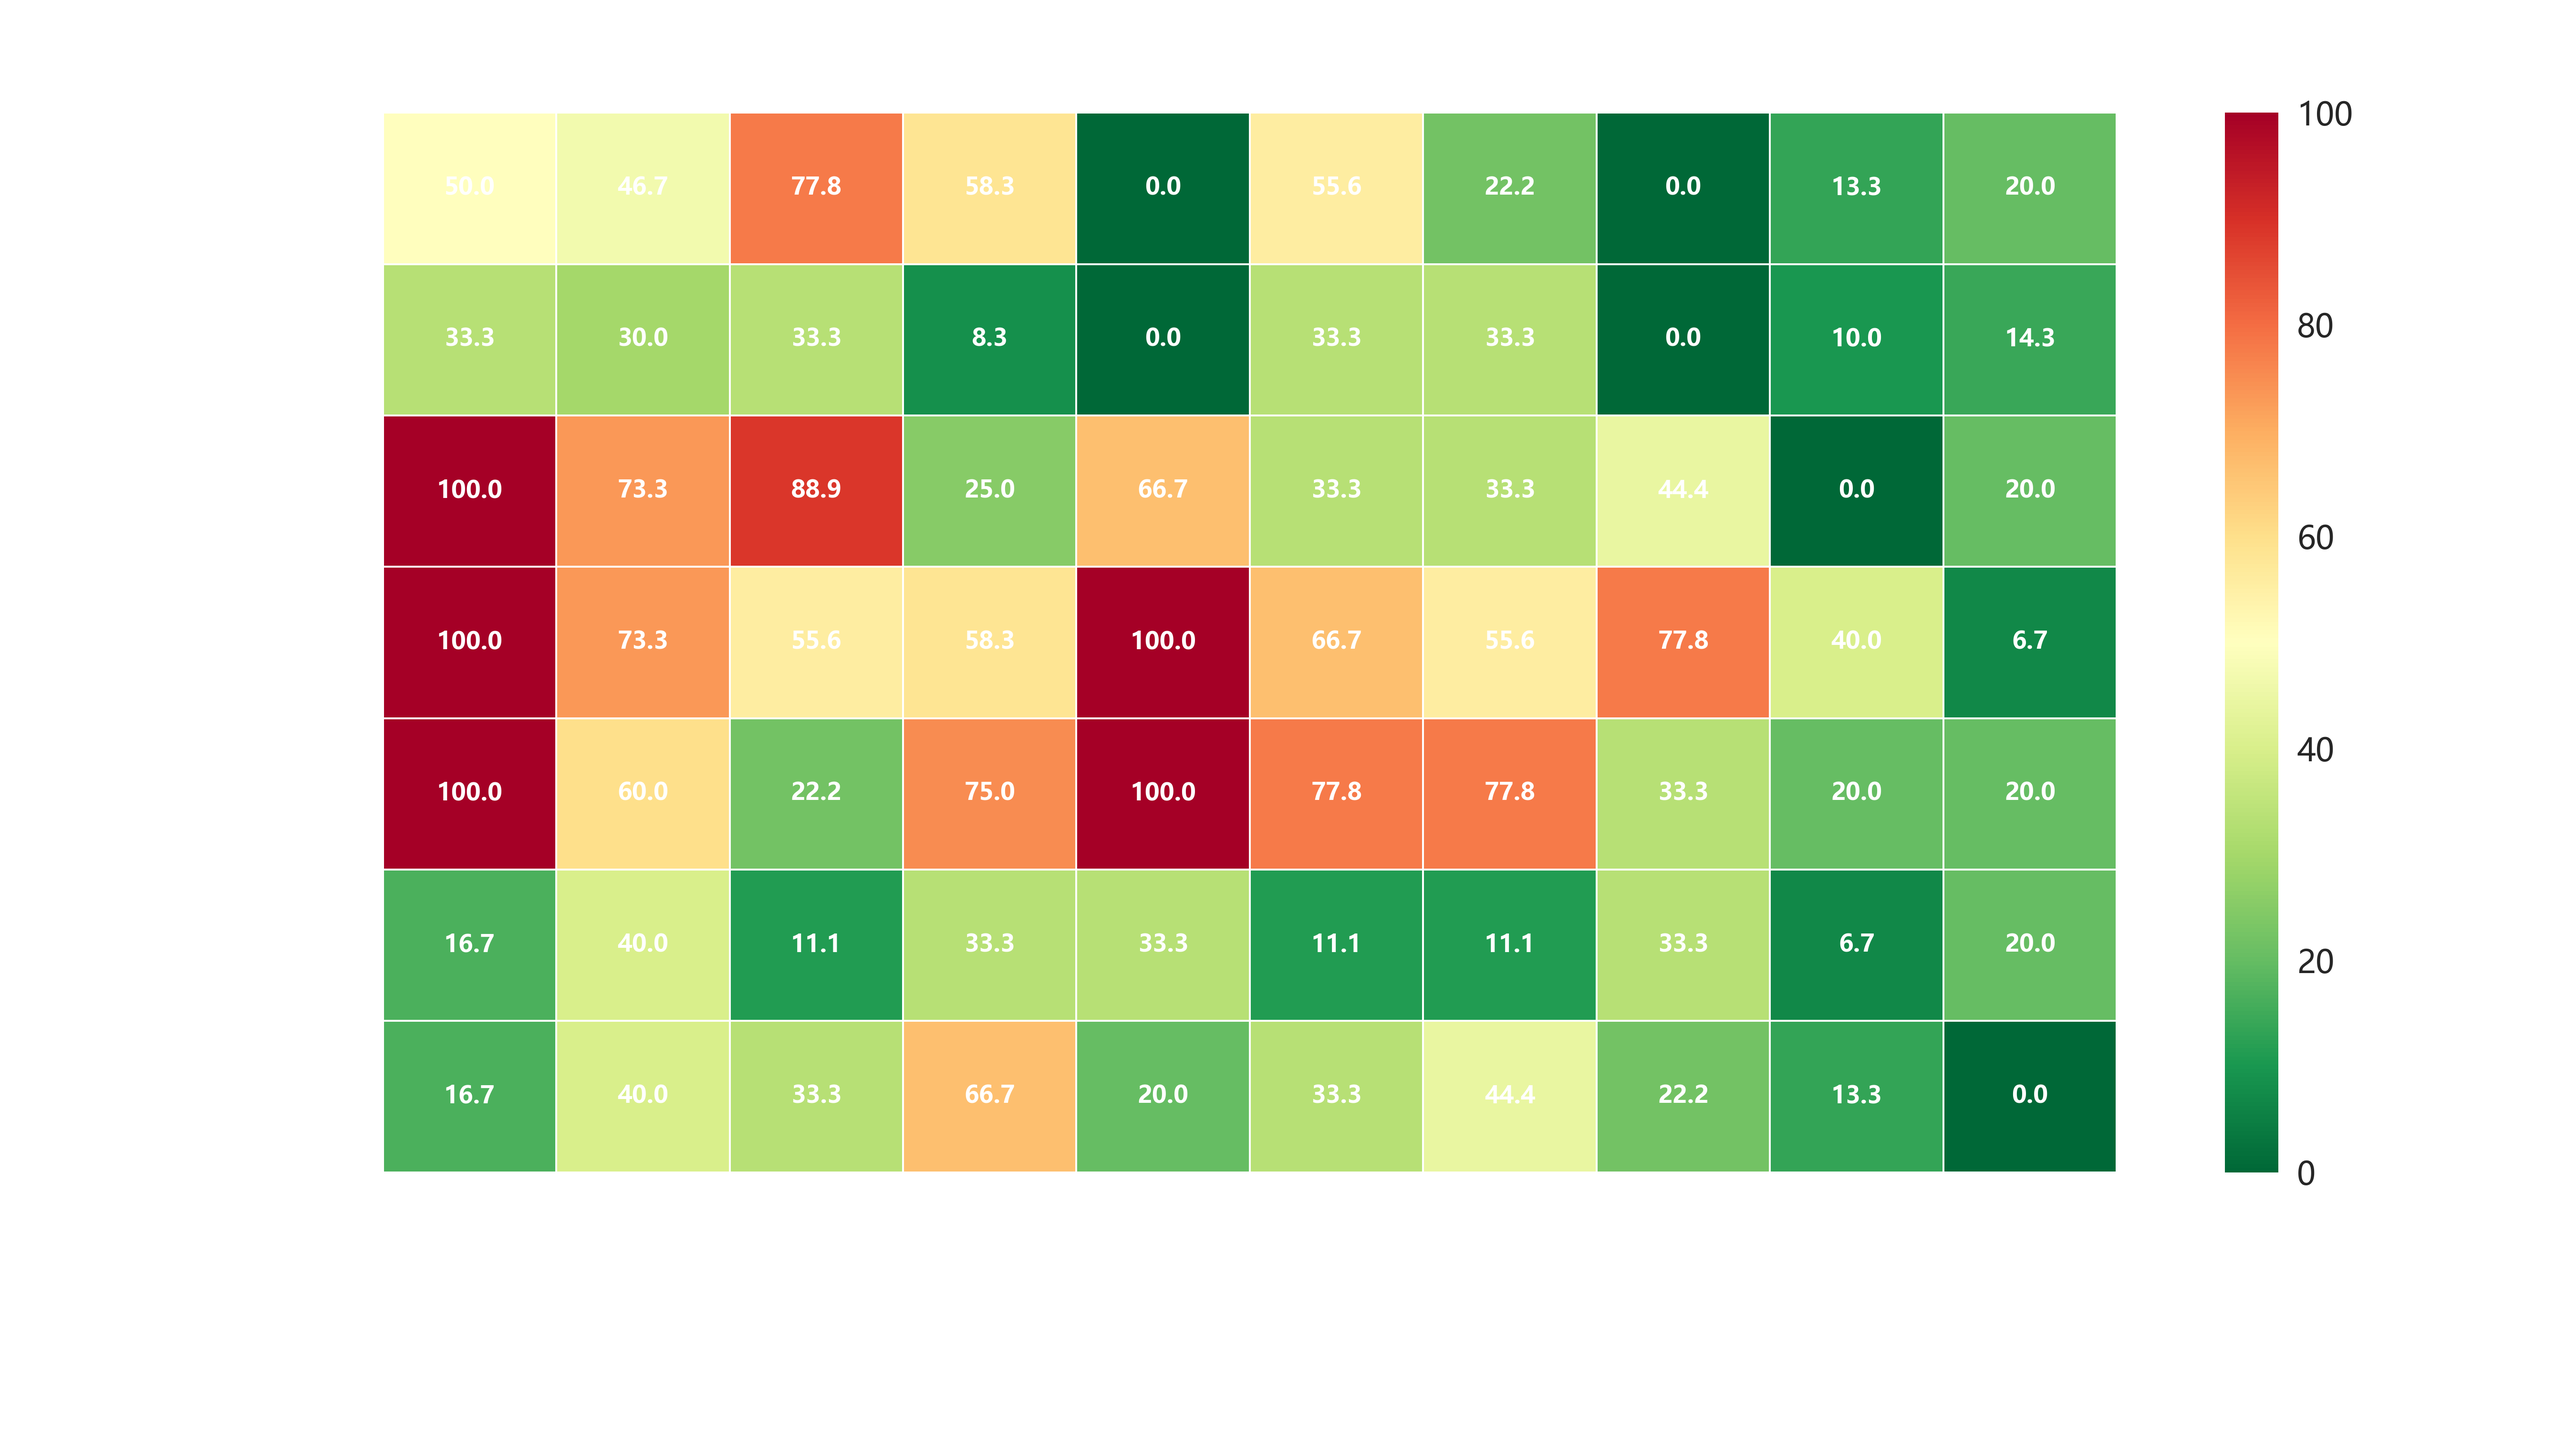
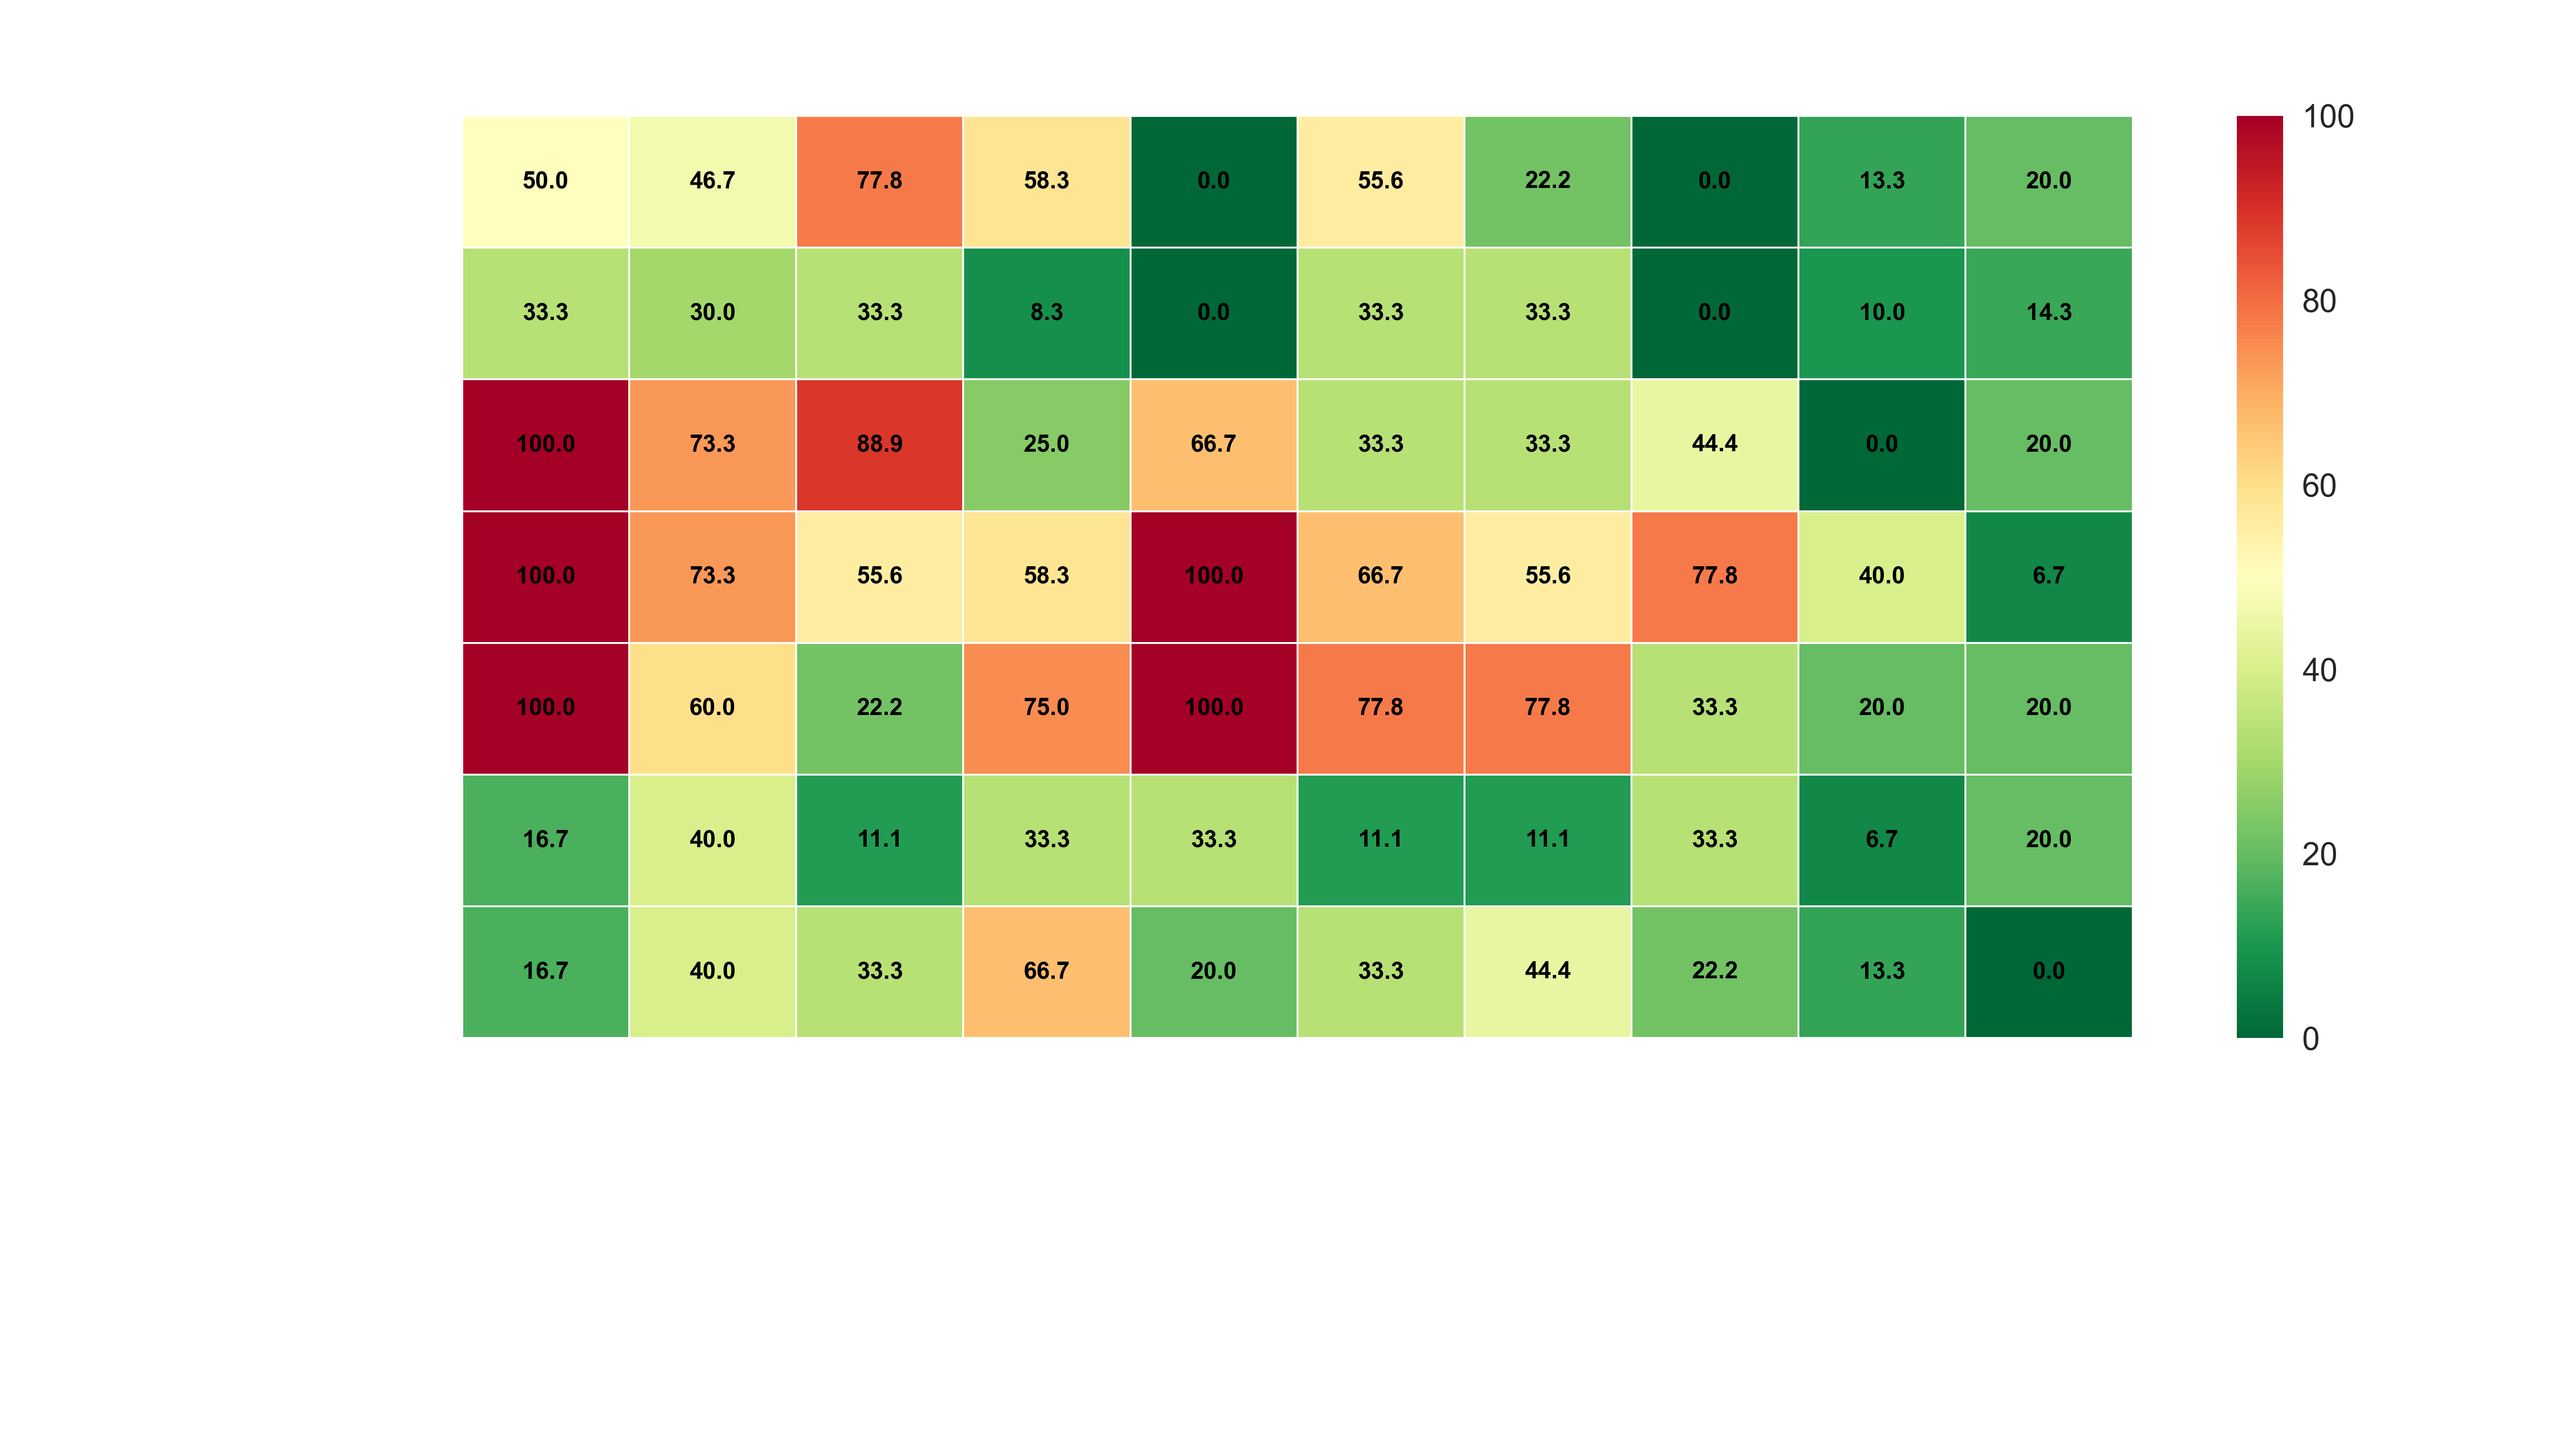
fix

diff --git a/martin/analyze_results_martin.py b/martin/analyze_results_martin.py
@@ -4,14 +4,36 @@ import pandas as pd
 import matplotlib.pyplot as plt
 import seaborn as sns
 from matplotlib.font_manager import FontProperties
+from matplotlib.colors import Normalize
 
-# Configuration
+# ==============================================================================
+# GLOBAL CONSTANTS & CONFIGURATION
+# ==============================================================================
+# File paths
 LOG_FILE = r".\NPCs\martin\jailbreak_evaluation_2026-05-18_11-45-56.txt" 
 OUTPUT_DIR = r".\NPCs\martin\out"
 
-# Ensure output directory exists
-os.makedirs(OUTPUT_DIR, exist_ok=True)
+# Presentation Color Schemes
+CMAP_THEME = 'RdYlGn_r'                # Core Red-Yellow-Green (Reversed) color space
+GRID_LINE_COLOR = '#ffffff'            # Color for structural layout dividers
+TEXT_WHITE = 'white'                   # Color for titles, axis text labels, and ticks
+MATRIX_TEXT_COLOR = 'black'            # High-contrast color for metrics inside matrix cells
 
+# Typography & Sizing Engine
+TITLE_FONT_SIZE = 28
+LABEL_FONT_SIZE = 20
+AXIS_TICK_FONT_SIZE = 20
+MATRIX_CELL_FONT_SIZE = 12
+TICK_ROTATION_DEG = 20
+
+# Unified Font Fallbacks (Handles specialized characters like 斯瓦塔之跳 safely)
+GLOBAL_FONTS = ['SimHei', 'Microsoft YaHei', 'Arial Unicode MS', 'DejaVu Sans', 'sans-serif']
+
+# Global initialization defaults for Matplotlib
+plt.rcParams['font.sans-serif'] = GLOBAL_FONTS
+plt.rcParams['axes.unicode_minus'] = False  
+
+# Data Mappings
 TEST_MAP = {
     'JB-CTX': "Context size (CTX window)",
     'JB-EXP': "Experimental (Time shift, Multiagent)",
@@ -35,7 +57,6 @@ MODEL_MAP = {
     'Qwen3.5-9B': "Qwen 3.5"
 }
 
-# The EXACT hardcoded order requested
 ORDERED_MODEL_NAMES = [
     "Gemma 4 E2B",
     "Gemma 4 E4B",
@@ -46,6 +67,12 @@ ORDERED_MODEL_NAMES = [
     "Qwen 3.5"
 ]
 
+# Ensure output directory exists
+os.makedirs(OUTPUT_DIR, exist_ok=True)
+
+# ==============================================================================
+# DATA PARSING ENGINE
+# ==============================================================================
 def parse_log_file(filepath):
     print(f"Parsing log file: {filepath}...")
     data = []
@@ -87,34 +114,54 @@ def parse_log_file(filepath):
     print(f"Successfully parsed {len(df)} evaluation records.")
     return df
 
+# ==============================================================================
+# PLOTTING FUNCTIONS
+# ==============================================================================
 def plot_jsr_by_model(df):
     sns.set_theme(style="whitegrid", rc={"axes.facecolor": "none", "figure.facecolor": "none"})
     
     model_stats = df.groupby('Model_Short')['Is_Jailbroken'].mean() * 100
-    
-    # Force reindex directly from the ORDERED_MODEL_NAMES array
     model_jsr_series = model_stats.reindex(ORDERED_MODEL_NAMES).fillna(0)
+    plot_df = model_jsr_series.reset_index(name='JSR_Value')
     
     fig, ax = plt.subplots(figsize=(18, 10), facecolor='none') 
     ax.set_facecolor('none') 
     
-    barplot = sns.barplot(x=model_jsr_series.values, y=model_jsr_series.index, palette="flare", ax=ax)
+    norm = Normalize(vmin=0, vmax=100)
     
-    plt.title('Jailbreak Success Rate (JSR) by Model\n(Higher % = More Vulnerable)', fontsize=24, fontweight='bold', pad=25, color='white')
-    plt.xlabel('Jailbreak Success Rate (%)', fontsize=20, labelpad=15, color='white')
-    plt.ylabel('Model', fontsize=20, labelpad=15, color='white')
+    barplot = sns.barplot(
+        data=plot_df,
+        x='JSR_Value', 
+        y='Model_Short', 
+        hue='JSR_Value',      
+        palette=CMAP_THEME,  
+        hue_norm=norm,        
+        legend=False,         
+        ax=ax
+    )
+    
+    # Text applications styled via global parameters
+    plt.title('Jailbreak Success Rate (JSR) by Model', fontsize=TITLE_FONT_SIZE, fontweight='bold', pad=25, color=TEXT_WHITE)
+    plt.xlabel('Jailbreak Success Rate (%)', fontsize=LABEL_FONT_SIZE, labelpad=15, color=TEXT_WHITE)
+    plt.ylabel('Model', fontsize=LABEL_FONT_SIZE, labelpad=15, color=TEXT_WHITE)
     plt.xlim(0, 100)
     
-    ax.tick_params(colors='white', which='both', labelsize=20)
-    ax.grid(color='#ffffff', linestyle=':', linewidth=0.5, alpha=0.3)
+    ax.tick_params(colors=TEXT_WHITE, which='both', labelsize=AXIS_TICK_FONT_SIZE)
+    ax.grid(color=GRID_LINE_COLOR, linestyle=':', linewidth=0.5, alpha=0.3)
+    
+    # Apply FontProperties parameters explicitly to match heatmap layout
+    font_prop = FontProperties(family=GLOBAL_FONTS, size=AXIS_TICK_FONT_SIZE)
+    for tick in ax.get_yticklabels():
+        tick.set_fontproperties(font_prop)
+        tick.set_color(TEXT_WHITE)
     
     for i, v in enumerate(model_jsr_series.values):
-        ax.text(v + 1, i, f"{v:.1f}%", color='white', va='center', fontweight='bold', fontsize=18)
+        ax.text(v + 1, i, f"{v:.1f}%", color=TEXT_WHITE, va='center', fontweight='bold', fontsize=18)
         
     plt.tight_layout()
     save_path = os.path.join(OUTPUT_DIR, 'jsr_by_model.png')
     plt.savefig(save_path, format='png', dpi=300, transparent=True)
-    print(f"Saved custom ordered bar chart to: {save_path}")
+    print(f"Saved value-colored bar chart to: {save_path}")
     plt.close()
 
 def plot_single_consolidated_heatmap(df):
@@ -128,59 +175,63 @@ def plot_single_consolidated_heatmap(df):
     ) * 100
     
     existing_cols = [name for name in TEST_MAP.values() if name in pivot_df.columns]
-    
-    # Reindex the Matrix dataframe directly from the ORDERED_MODEL_NAMES array
     if existing_cols:
         pivot_df = pivot_df.reindex(index=ORDERED_MODEL_NAMES, columns=existing_cols).fillna(0)
         
     fig, ax = plt.subplots(figsize=(18, 10), facecolor='none') 
     ax.set_facecolor('none') 
     
-    fallback_fonts = ['SimHei', 'Microsoft YaHei', 'Arial Unicode MS', 'DejaVu Sans', 'sans-serif']
-    plt.rcParams['font.sans-serif'] = fallback_fonts
-    plt.rcParams['axes.unicode_minus'] = False
-    
     sns.heatmap(
         pivot_df, 
         annot=True, 
         fmt=".1f", 
-        cmap="RdYlGn_r", 
+        cmap=CMAP_THEME,  
         vmin=0, 
         vmax=100, 
         linewidths=.5,
-        linecolor='#ffffff', 
+        linecolor=GRID_LINE_COLOR, 
         ax=ax,
-        annot_kws={'color': 'white', 'weight': 'bold', 'size': 12}, 
+        annot_kws={'color': MATRIX_TEXT_COLOR, 'weight': 'bold', 'size': MATRIX_CELL_FONT_SIZE}, 
         cbar_kws={'label': 'Jailbreak Success Rate (%)'}
     )
     
-    plt.title('Master Heatmap: Comprehensive Vulnerability Matrix', fontsize=24, fontweight='bold', pad=25, color='white')
-    plt.xlabel('Attack Category', fontsize=20, labelpad=15, color='white')
-    plt.ylabel('Model', fontsize=20, labelpad=15, color='white')
+    # Outer text layers styled via global parameters
+    plt.title('Master Heatmap: Comprehensive Vulnerability Matrix', fontsize=TITLE_FONT_SIZE, fontweight='bold', pad=25, color=TEXT_WHITE)
+    plt.xlabel('Attack Category', fontsize=LABEL_FONT_SIZE, labelpad=15, color=TEXT_WHITE)
+    plt.ylabel('Model', fontsize=LABEL_FONT_SIZE, labelpad=15, color=TEXT_WHITE)
     
-    ax.tick_params(colors='white', which='both', labelsize=20) 
+    ax.tick_params(colors=TEXT_WHITE, which='both', labelsize=AXIS_TICK_FONT_SIZE) 
     
-    font_prop = FontProperties(family=fallback_fonts, size=10)
+    font_prop = FontProperties(family=GLOBAL_FONTS, size=AXIS_TICK_FONT_SIZE)
+    
+    # Configure the X-axis (Attack Categories)
     for tick in ax.get_xticklabels():
         tick.set_fontproperties(font_prop)
-        tick.set_color('white')
-        tick.set_rotation(20)
+        tick.set_color(TEXT_WHITE)
+        tick.set_rotation(TICK_ROTATION_DEG)
         tick.set_ha('right')
         
-    plt.yticks(rotation=0, color='white')
-    
+    # Configure the Y-axis (Models)
+    for tick in ax.get_yticklabels():
+        tick.set_fontproperties(font_prop)
+        tick.set_color(TEXT_WHITE)
+        tick.set_rotation(0)
+        
     cbar = ax.collections[0].colorbar
-    cbar.ax.yaxis.set_tick_params(color='white', labelsize=16)
-    cbar.set_label('Jailbreak Success Rate (%)', color='white', labelpad=15, fontsize=20)
+    cbar.ax.yaxis.set_tick_params(color=TEXT_WHITE, labelsize=16)
+    cbar.set_label('Jailbreak Success Rate (%)', color=TEXT_WHITE, labelpad=15, fontsize=LABEL_FONT_SIZE)
     
     plt.subplots_adjust(bottom=0.28) 
     plt.tight_layout()
     
     save_path = os.path.join(OUTPUT_DIR, 'heatmap_master_consolidated.png')
     plt.savefig(save_path, format='png', dpi=300, transparent=True)
-    print(f"Saved ordered matrix chart to: {save_path}")
+    print(f"Saved matrix chart to: {save_path}")
     plt.close()
 
+# ==============================================================================
+# MAIN RUNNER Execution Block
+# ==============================================================================
 def main():
     if not os.path.exists(LOG_FILE):
         print(f"Error: Could not find log file at {LOG_FILE}")
@@ -192,10 +243,10 @@ def main():
         print("No valid evaluation data found.")
         return
         
-    print("Regenerating both graphs locked to explicit mapping list...")
+    print("Regenerating synchronized plots under unified global parameters...")
     plot_jsr_by_model(df)
     plot_single_consolidated_heatmap(df)
-    print("\nAll tasks completed successfully!")
+    print("\nAll done! Visual metrics are compiled completely symmetrically.")
 
 if __name__ == "__main__":
     main()
